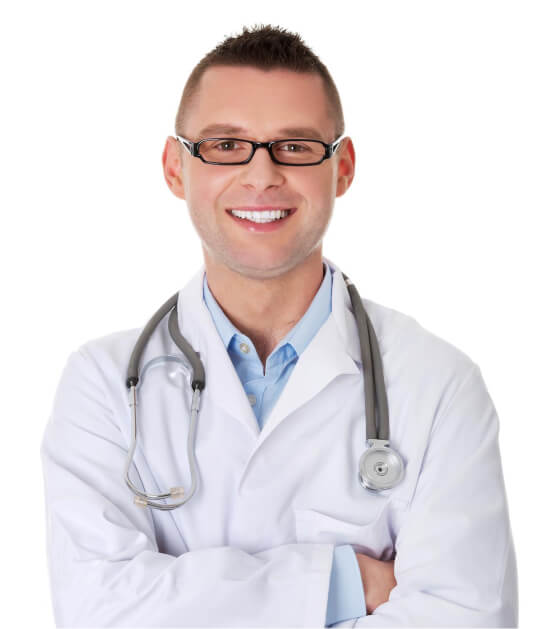
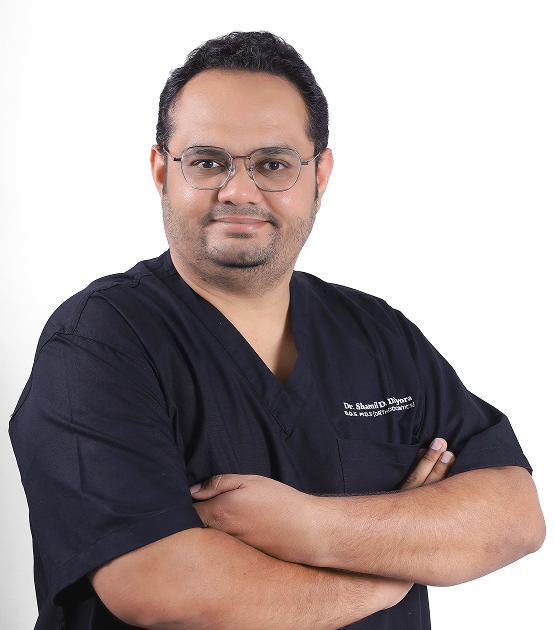
Images changed

diff --git a/index.html b/index.html
@@ -579,7 +579,7 @@
                                             <img src="assets/images/feature/02.png" alt="medicle">
                                         </div>
                                         <div class="thumbnail-image">
-                                            <img src="assets/images/feature/01.webp" alt="medicle">
+                                            <img src="assets/images/feature/01.png" alt="medicle">
                                         </div>
                                         <div class="inner-content">
                                             <div class="top">
@@ -612,7 +612,7 @@
                 <div class="col-lg-12">
                     <div class="top-title-wrapper-center-clip">
                         <h2 class="title wow move-right">
-                            Glimpse of Our Clinic
+                            Glimpse of Our Clinic 
                         </h2>
                     </div>
                 </div>

diff --git a/about.html b/about.html
@@ -392,7 +392,7 @@
                                             <img src="assets/images/feature/02.png" alt="medicle">
                                         </div>
                                         <div class="thumbnail-image">
-                                            <img src="assets/images/feature/01.webp" alt="medicle">
+                                            <img src="assets/images/feature/01.png" alt="medicle">
                                         </div>
                                         <div class="inner-content">
                                             <div class="top">
